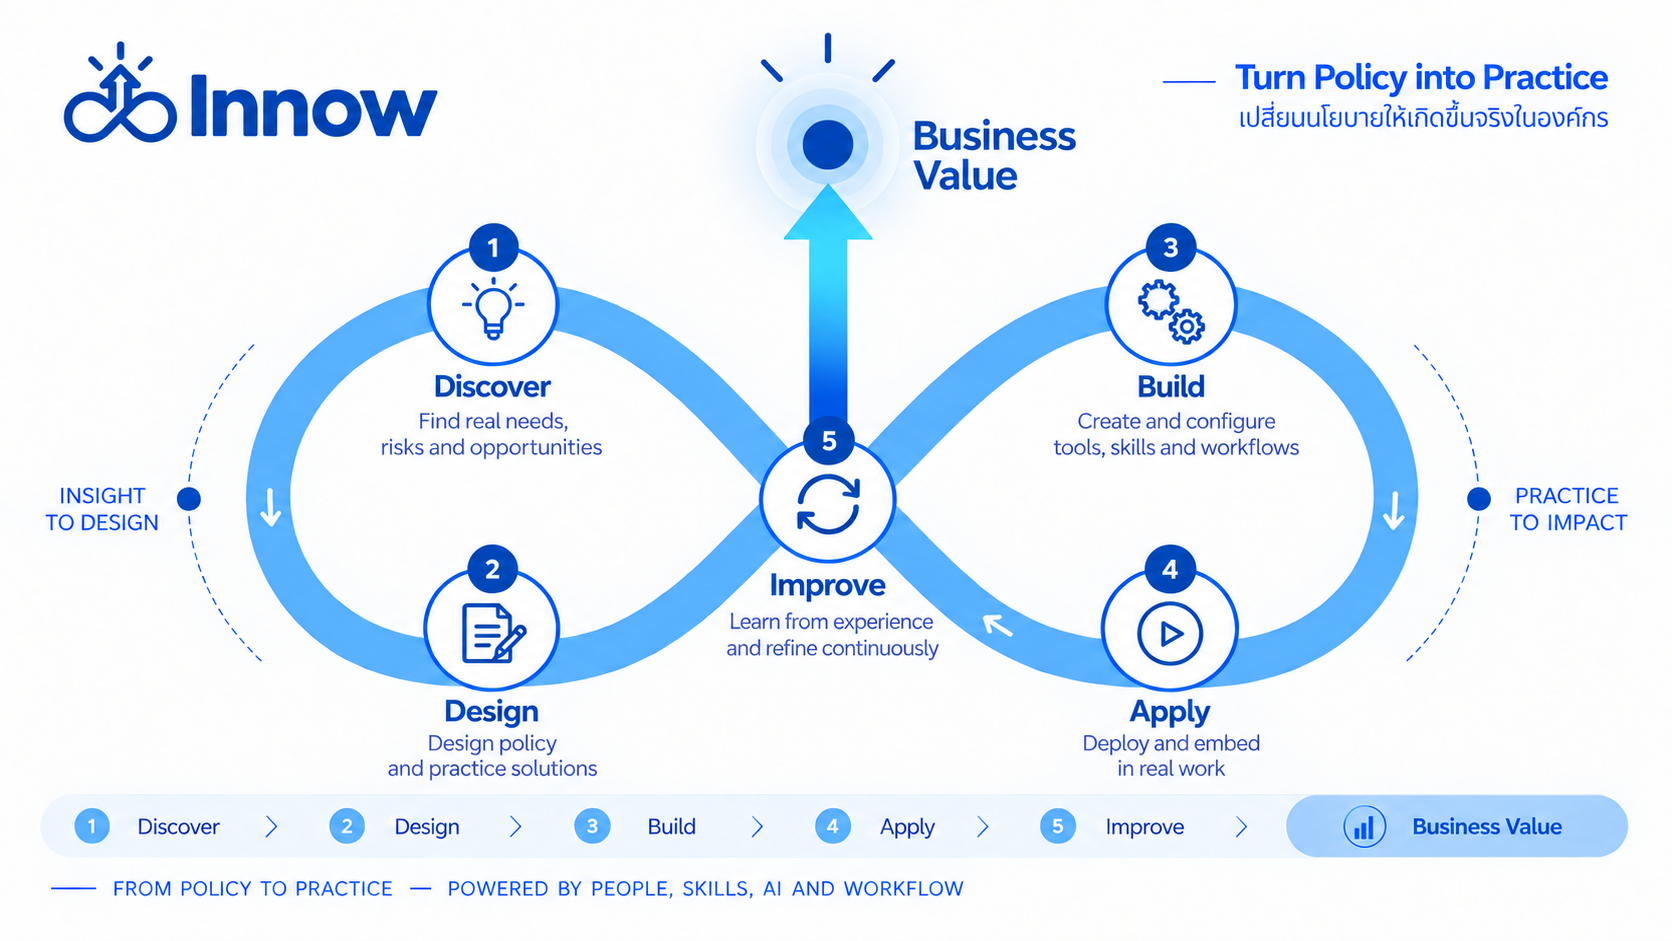
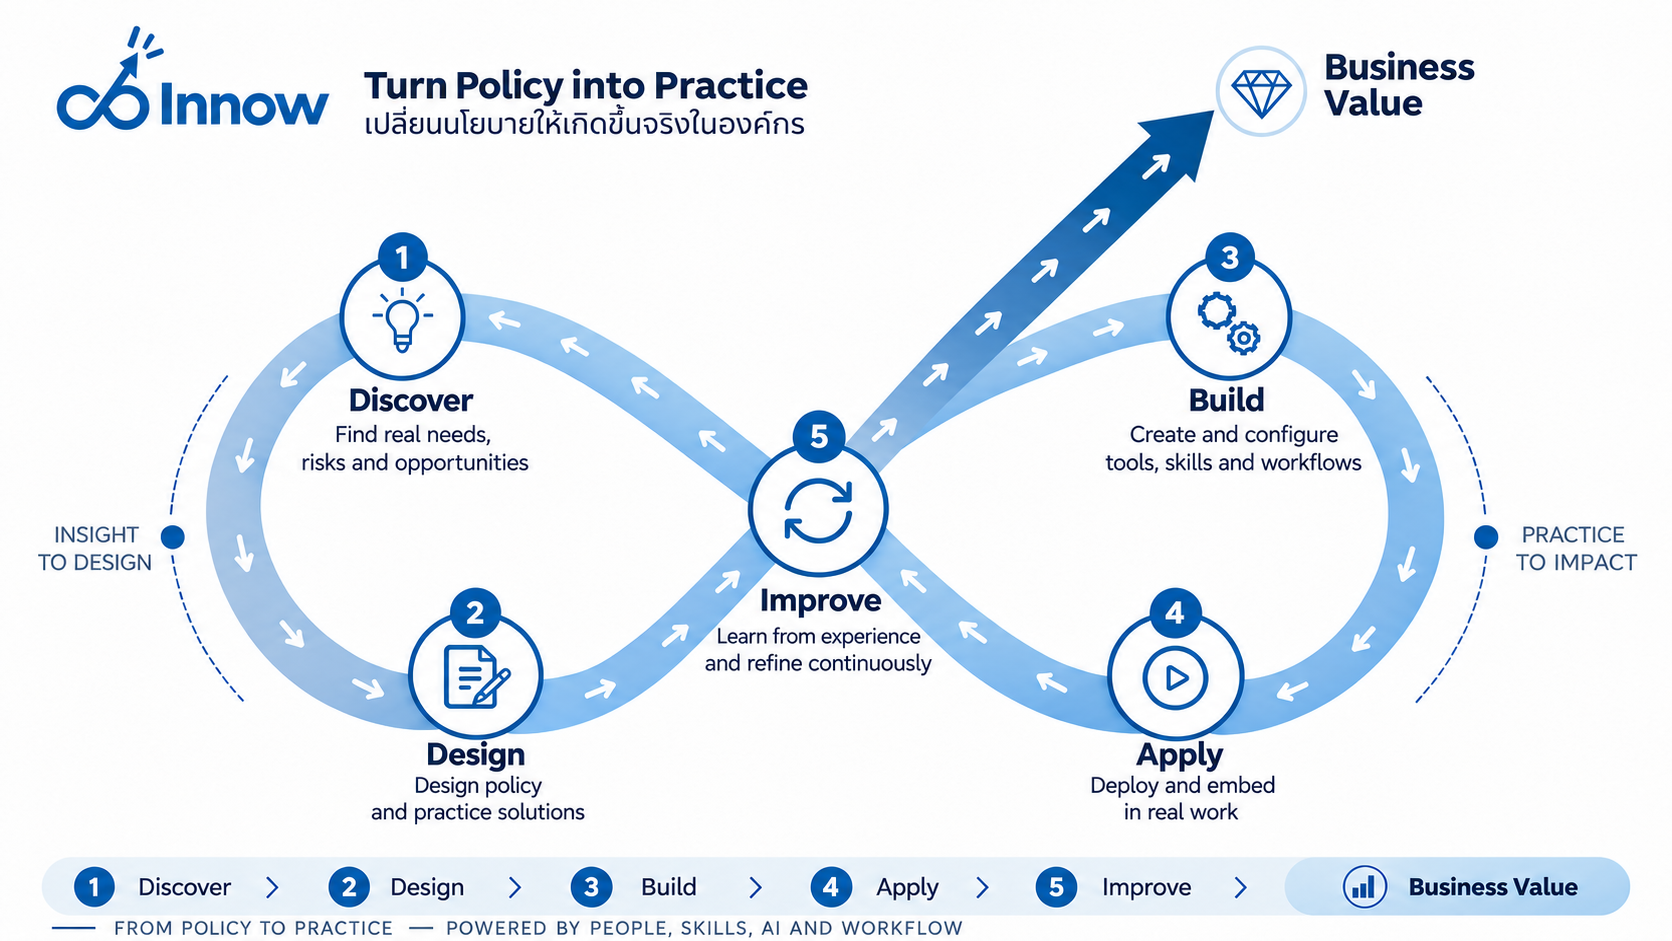
Update Innow Method image and Claude Code course

diff --git a/index.html b/index.html
@@ -2928,7 +2928,7 @@
           <figure class="diagram-frame method-artwork"><button aria-label="ขยายแผนภาพ Innow Method"
               class="image-trigger" data-gallery="method" type="button"><img
                 alt="Innow Method: Discover และ Design อยู่ห่วงซ้าย Build และ Apply อยู่ห่วงขวา Improve อยู่จุดตัดกลาง และลูกศรชี้ขึ้นสู่ Business Value ซึ่งเป็นปลายทาง ไม่ใช่ขั้นที่หก"
-                decoding="async" height="674" loading="lazy" src="images/main-diagram.png" width="1200" /></button>
+                decoding="async" height="941" loading="lazy" src="images/main-diagram.png" width="1672" /></button>
           </figure>
           <div>
             <ol class="method-list">
@@ -3102,11 +3102,11 @@
                   aria-hidden="true">↗</span></a>
             </article>
             <article class="course" id="course-5">
-              <p class="course-meta">3 วัน · ในสถานที่</p>
-              <h4 lang="en">Claude Code Intensive</h4>
-              <p>พา Web App จาก prototype ขึ้น production ออกแบบ Agent System และต่อระบบชำระเงิน
-                พร้อมเขียนโค้ดตามมาตรฐาน OWASP</p><a aria-label="ขอรายละเอียดหลักสูตร Claude Code Intensive"
-                class="course-link" data-course="Claude Code Intensive" href="#contact">ขอรายละเอียดหลักสูตร <span
+              <p class="course-meta">2 วัน · ในสถานที่</p>
+              <h4 lang="en">Claude Code for Software Dev Process</h4>
+              <p>ใช้ Claude Code ในกระบวนการพัฒนาซอฟต์แวร์ ตั้งแต่วิเคราะห์ความต้องการ วางแผน เขียนโค้ด ทดสอบ
+                และรีวิวโค้ด พร้อมจัดขั้นตอนทำงานร่วมกันในทีม</p><a aria-label="ขอรายละเอียดหลักสูตร Claude Code for Software Dev Process"
+                class="course-link" data-course="Claude Code for Software Dev Process" href="#contact">ขอรายละเอียดหลักสูตร <span
                   aria-hidden="true">↗</span></a>
             </article>
             <article class="course" id="course-6">
@@ -3317,7 +3317,7 @@
               </optgroup>
               <optgroup label="สายนักพัฒนา">
                 <option>AI-Powered Software Development Mastery</option>
-                <option>Claude Code Intensive</option>
+                <option>Claude Code for Software Dev Process</option>
                 <option>Secure Coding</option>
               </optgroup>
             </select>
